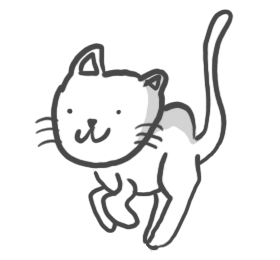
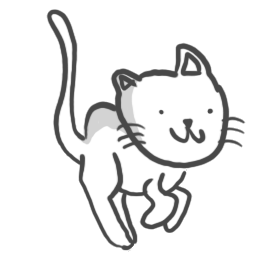
Added a cat.

Changed region(s): [[0.1143, 0.0308, 0.8857, 0.9846]]

diff --git a/html/catx.band/karaoke/sheets.js b/html/catx.band/karaoke/sheets.js
@@ -4,6 +4,16 @@ class Sheets{
 	this.span.style = "position:absolute;left:0;top:0;width:100vw;height:100vh;z-index:-1;background-color:#000;";
 	where.appendChild(this.span);
 	document.onkeydown = e=>this.onkeydown(e);
+	this.frames = [];
+	for (let frame=0; frame<7; frame++){
+	    const img=document.createElement("img");
+	    img.src = "../cat/run-"+frame+".png";
+	    img.style = "position:absolute;width:5vw;z-index:1;";
+	    where.appendChild(img);
+	    this.frames[frame] = img;
+	    if (frame!=0)
+		img.style.visibility = "hidden";
+	}
     }
     reset(startTime,repeat,songLength,name,measureMap,measureCoordinates){
 	this.startTime = startTime;
@@ -82,7 +92,7 @@ class Sheets{
 		this.page_r = this.page_l+1;
 	this.animateStart = new Date().getTime();
     }
-    gotoPage(time){
+    gotoPage(time,width,height,rect){
 	if (this.repeat&&time>=this.songLength)
 	    time -= Math.floor((time-this.songLength)/this.repeat+1)*this.repeat;
 	let measureNumber;
@@ -97,43 +107,57 @@ class Sheets{
 	const imn=Math.floor(measureNumber);
 	const mc=this.measureCoordinates[this.who];
 	if (mc){
-	    const m=this.map_measure_number(imn);
-	    const measure=mc[Math.max(Math.min(m-1,mc.length-1),0)];
-	    let lp=this.page_l;
-	    let rp=this.page_r;
-	    if (measure[0]&1)
-		lp = measure[0]-1;
-	    else
-		rp = measure[0]-1;
-	    if (measure[1])
-		for (let p=imn;; p++){
-		    const o=this.map_measure_number(p);
-		    if (o<0 || o>=mc.length)
-			break;
-		    const om=mc[o];
-		    if (om[0]!=measure[0]){
-			if (om[0]+measure[0]&1)
-			    if (om[0]&1)
-				lp = om[0]-1;
-			    else
-				rp = om[0]-1;
-			break;
+	    const iim=this.map_measure_number(imn)-1;
+	    const m=Math.max(Math.min(iim,mc.length-1),0);
+	    const measure=mc[m];
+	    if (measure){
+		let lp=this.page_l;
+		let rp=this.page_r;
+		if (measure[0]&1)
+		    lp = measure[0]-1;
+		else
+		    rp = measure[0]-1;
+		if (measure[1])
+		    for (let p=imn;; p++){
+			const o=this.map_measure_number(p);
+			if (o<0 || o>=mc.length)
+			    break;
+			const om=mc[o];
+			if (om[0]!=measure[0]){
+			    if (om[0]+measure[0]&1)
+				if (om[0]&1)
+				    lp = om[0]-1;
+				else
+				    rp = om[0]-1;
+			    break;
+			}
 		    }
+		if (rp>=this.pages.length)
+		    rp = this.pages.length-2+(rp+this.pages.length&1);
+		if (rp<0)
+		    rp &= 1;
+		if (lp>=this.pages.length)
+		    lp = this.pages.length-2+(lp+this.pages.length&1);
+		if (lp<0)
+		    lp &= 1;
+		if (lp!=this.page_l || rp!=this.page_r){
+		    this.old_page_l = this.page_l;
+		    this.old_page_r = this.page_r;
+		    this.page_l = lp;
+		    this.page_r = rp;
+		    this.animateStart = new Date().getTime();
 		}
-	    if (rp>=this.pages.length)
-		rp = this.pages.length-2+(rp+this.pages.length&1);
-	    if (rp<0)
-		rp &= 1;
-	    if (lp>=this.pages.length)
-		lp = this.pages.length-2+(lp+this.pages.length&1);
-	    if (lp<0)
-		lp &= 1;
-	    if (lp!=this.page_l || rp!=this.page_r){
-		this.old_page_l = this.page_l;
-		this.old_page_r = this.page_r;
-		this.page_l = lp;
-		this.page_r = rp;
-		this.animateStart = new Date().getTime();
+		measureNumber += iim-imn-m;
+		for (const f of this.frames)
+		    f.style.visibility = "hidden";
+		const s=this.frames[((measureNumber*28|0)%7+7)%7].style;
+		s.visibility = "visible";
+		s.top = (rect.height+(measure[5]+.5*(measure[5]-measure[3])-1)*height)+"px";
+		const x0=(measure[2]+measureNumber*(measure[4]-measure[2]));
+		if (this.page_l+1==measure[0])
+		    s.right = (rect.width-x0*width)+"px";
+		else if (this.page_r+1==measure[0])
+		    s.right = (1-x0)*width+"px";
 	    }
 	}
     }
@@ -161,11 +185,11 @@ class Sheets{
     animate(time){
 	if (!this.enabled || !this.name)
 	    return;
-	if (isPlaying)
-	    this.gotoPage(time);
 	const rect=this.span.getBoundingClientRect();
 	const height=Math.min(rect.height,rect.width*9/8/2);
 	const width=height*8/9;
+	if (isPlaying)
+	    this.gotoPage(time,width,height,rect);
 	const a=Math.min((new Date().getTime()-this.animateStart)/5,100);
 	for (let page=0; page<this.pages.length; page++){
 	    const s=this.pages[page].style;
@@ -192,7 +216,10 @@ class Sheets{
     }
     setEnabled(enabled){
 	this.enabled = enabled;
-	this.span.style.display = enabled?"block":"none";
+	const display=enabled?"block":"none";
+	this.span.style.display = display;
+	for (const frame of this.frames)
+	    frame.style.display = display;
 	const opacity=enabled?.2:1;
 	document.getElementById("name").style.opacity = opacity;
 	document.getElementById("stopImg").style.opacity = opacity;
